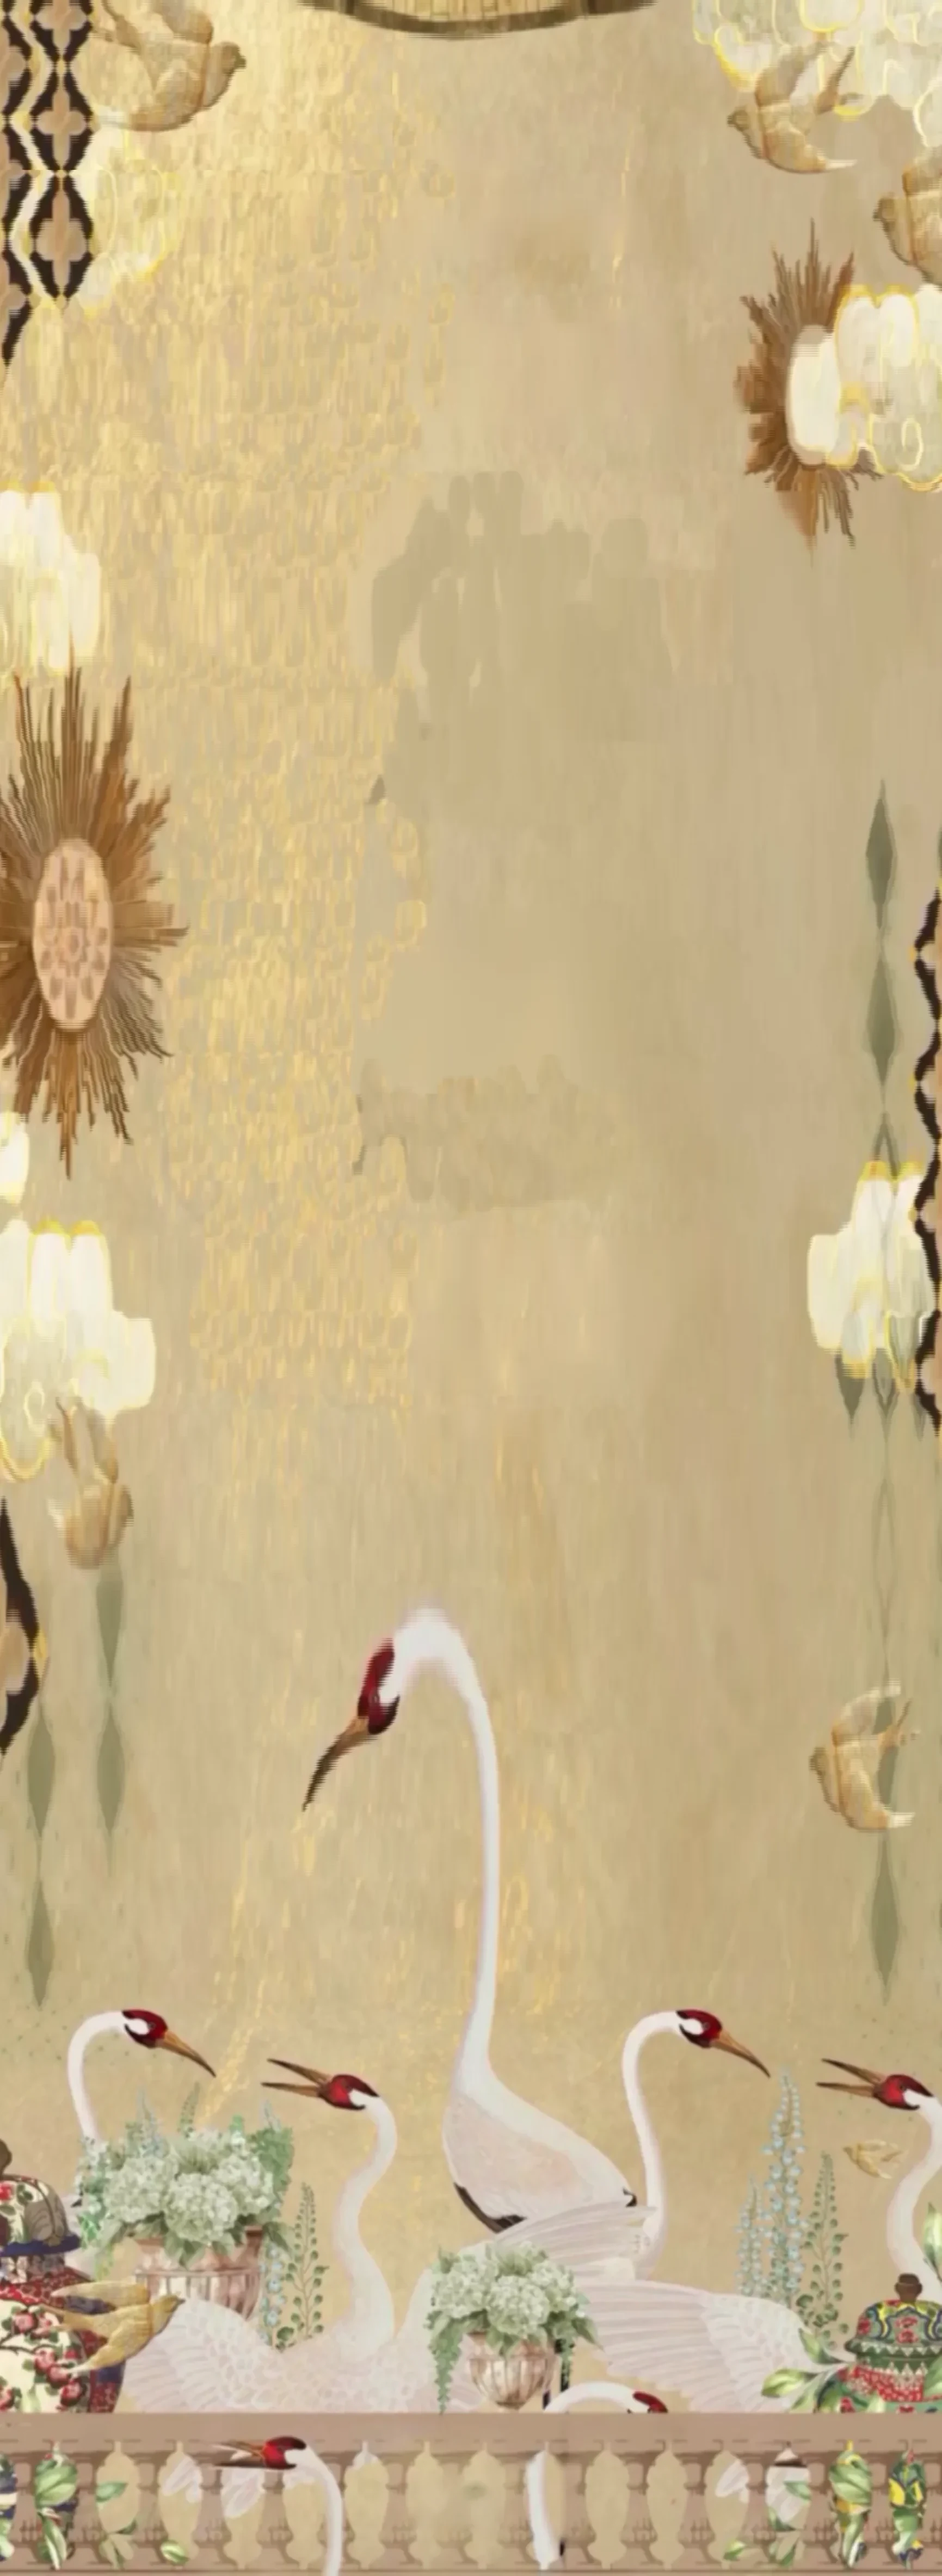
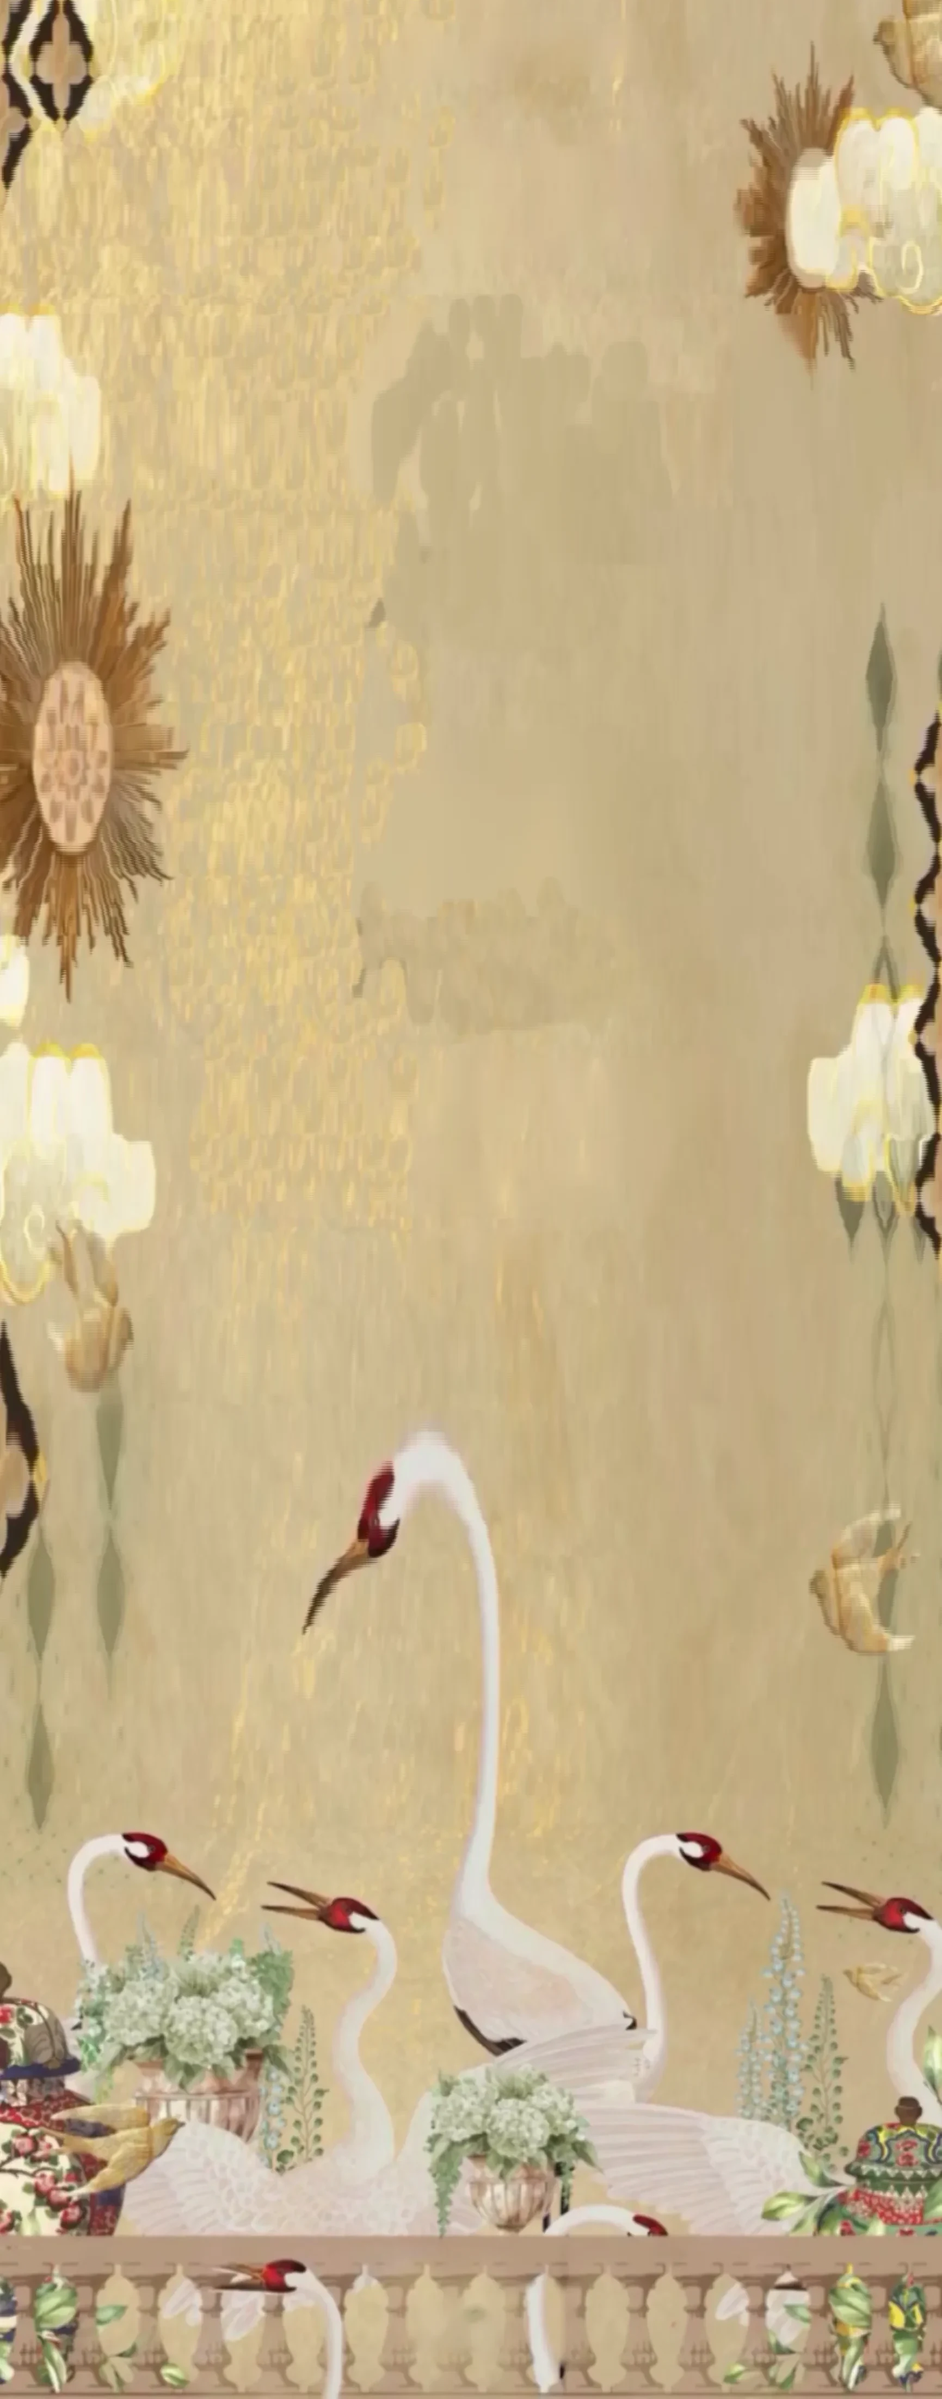
fix: image aligning fixing

diff --git a/lib/theme.ts b/lib/theme.ts
@@ -39,7 +39,7 @@ export const THEME = {
   },
 
   dateSection: {
-    top: "38%",
+    top: "69%",
     left: "50%",
     weekday: { fontSize: "15px", color: "var(--color-ink)" },
     day: { fontSize: "34px", color: "var(--color-ink)" },
@@ -73,7 +73,7 @@ export const THEME = {
   },
 
   countdown: {
-    paddingTop: "64px",
+    paddingTop: "160px",
     paddingBottom: "64px",
     eyebrow: { fontSize: "11px", color: "var(--color-ink)" },
     unitValue: { fontSize: "24px", color: "var(--color-ink)" },

diff --git a/components/InvitationExperience.tsx b/components/InvitationExperience.tsx
@@ -35,7 +35,7 @@ export function InvitationExperience({
       />
 
       <main className="mx-auto max-w-2xl">
-        <div className="relative aspect-[1731/9857] w-full">
+        <div className="relative aspect-[1731/5450] w-full">
           <BackgroundScene />
           <NamesSection guestName={guestName} />
           <InvitationMessage />

diff --git a/components/BackgroundScene.tsx b/components/BackgroundScene.tsx
@@ -4,7 +4,7 @@ export function BackgroundScene() {
   return (
     <div className="pointer-events-none absolute inset-0 z-0 overflow-hidden">
       <Image
-        src="/background.webp"
+        src="/background-top.webp"
         alt=""
         fill
         priority
